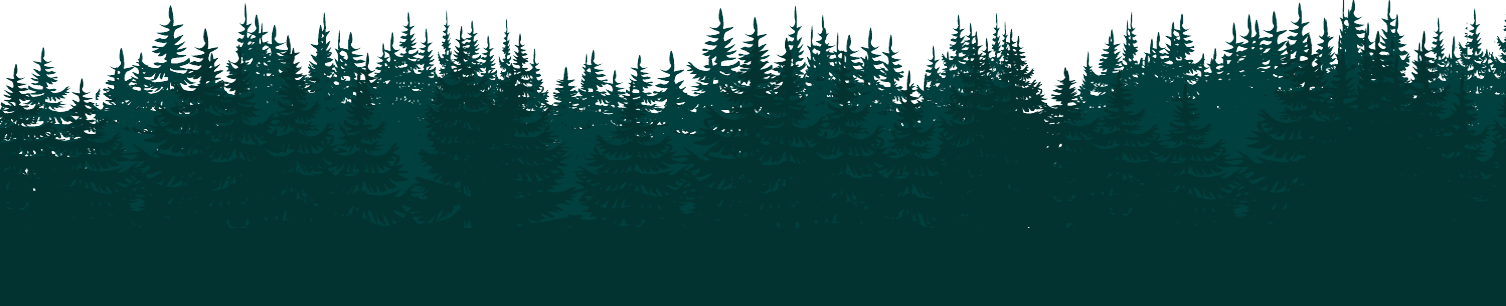
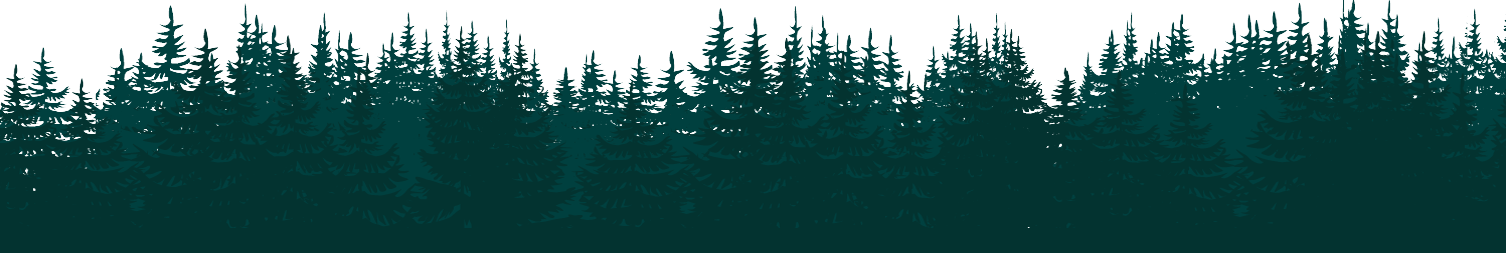
pro footer

diff --git a/index2.html b/index2.html
@@ -209,6 +209,7 @@
       <br>
       <br>
       <h1 style="text-align: center; color: #228B22;">We, are the right choice.</h1><br><br>
+      <img src="../images/trees_footer.png" width="100%">
       <footer class="page-footer" style="text-align: center;">
         <div class="container">
             <div class="row">

diff --git a/html/about.html b/html/about.html
@@ -168,6 +168,7 @@
             <p id="linke"><img src="../images/linkedin.png">/Tanvi_Thakkar</p>
         </div>
     </div>
+    <img src="../images/trees_footer.png" width="100%">
     <footer class="page-footer" style="text-align: center;">
         <div class="container">
             <div class="row">

diff --git a/html/Buy_now.html b/html/Buy_now.html
@@ -90,6 +90,7 @@
     </div>
     <br>
     <br>
+    <img src="../images/trees_footer.png" width="100%">
     <footer class="page-footer" style="text-align: center;position: fixed; bottom: 0; width: 100%;">
         <div class="container">
             <div class="row">

diff --git a/html/cart.html b/html/cart.html
@@ -138,7 +138,7 @@
             
          </script>
      <br>
-     
+     <img src="../images/trees_footer.png" width="100%">
      <footer class="page-footer" style="text-align: center; width:100%;">
          <div class="container">
              <div class="row">

diff --git a/html/cc.html b/html/cc.html
@@ -143,6 +143,7 @@
         </form>
         <br>
         <br>
+        <img src="../images/trees_footer.png" width="100%">
         <footer class="page-footer" style="text-align: center;">
             <div class="container">
                 <div class="row">

diff --git a/html/Faqs.html b/html/Faqs.html
@@ -341,7 +341,7 @@
 <br><br>
 
     <!--Footer from here-->      
-        
+    <img src="../images/trees_footer.png" width="100%">
     <footer class="page-footer" style="text-align: center;">
         <div class="container">
             <div class="row">

diff --git a/html/consultancy_services.html b/html/consultancy_services.html
@@ -155,6 +155,7 @@
     </div>
     <div class="black"></div>
     <br><br>
+    <img src="../images/trees_footer.png" width="100%">
     <footer class="page-footer" style="text-align: center;">
         <div class="container">
             <div class="row">

diff --git a/html/consultancy.html b/html/consultancy.html
@@ -172,6 +172,7 @@
                  </a>
             </div>
     </div>
+    <img src="../images/trees_footer.png" width="100%">
     <footer class="page-footer" style="text-align: center;">
         <div class="container">
             <div class="row">

diff --git a/html/grid.html b/html/grid.html
@@ -186,7 +186,7 @@
             </a>
         </div>
     </div>
-    
+    <img src="../images/trees_footer.png" width="100%">
     <footer class="page-footer" style="text-align: center;">
         <div class="container">
             <div class="row">

diff --git a/html/upi.html b/html/upi.html
@@ -140,6 +140,7 @@
     </form>
     <br>
         <br>
+        <img src="../images/trees_footer.png" width="100%">
     <footer class="page-footer" style="text-align: center;">
         <div class="container">
             <div class="row">

diff --git a/html/calc.html b/html/calc.html
@@ -288,6 +288,7 @@
 </form>
     </div>
 </div>
+<img src="../images/trees_footer.png" width="100%">
     <footer class="page-footer" style="text-align: center;">
         <div class="container">
             <div class="row">

diff --git a/html/nb.html b/html/nb.html
@@ -139,6 +139,7 @@
         </fieldset>
 <br>
 <br>
+<img src="../images/trees_footer.png" width="100%">
 <footer class="page-footer" style="text-align: center;">
     <div class="container">
         <div class="row">
